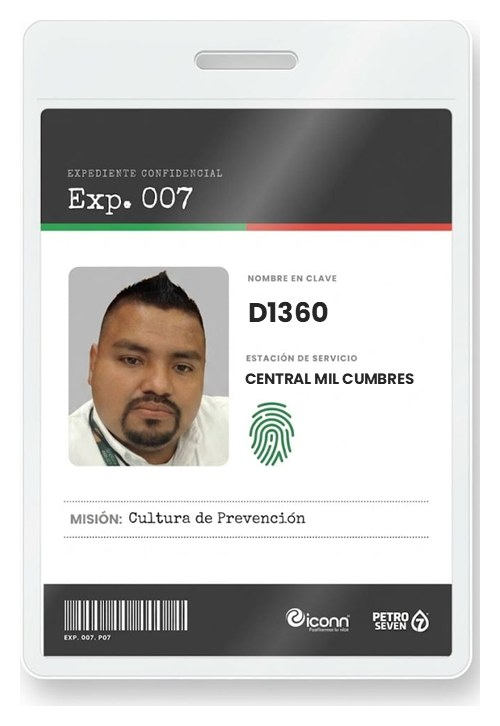
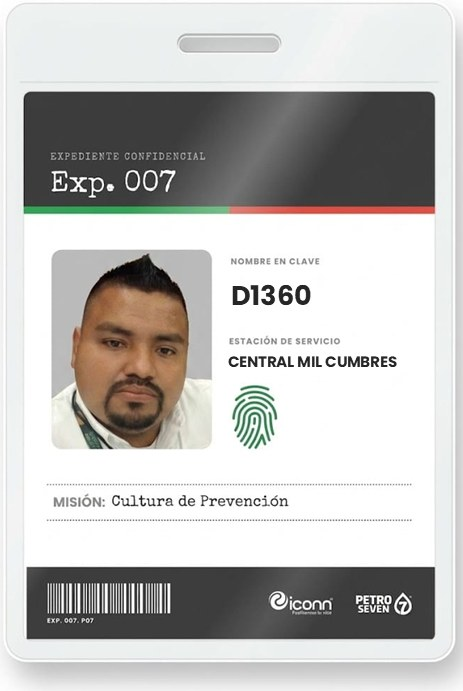
IDs con marco blanco delgado ajustado y sombra detrás
Claude-Session: https://claude.ai/code/session_01DvFJqKrDM1LFJ7GMwDyDfp

diff --git a/index.html b/index.html
@@ -87,9 +87,9 @@
 .ag-sub{text-align:center;font-size:20px;font-weight:600;line-height:1.45;max-width:640px;margin:-1.2cqw auto 3cqw}
 .ag-stage{position:relative;margin:0 auto;z-index:5;height:min(620px,47cqw)}
 .ag-view{position:absolute;inset:0}
-.ag-k{position:absolute;top:50%;left:50%;width:min(440px,33cqw);aspect-ratio:.72;transition:transform .55s cubic-bezier(.3,.7,.2,1),opacity .55s,filter .55s;cursor:pointer;
-display:grid;place-items:center;background:#fff;border-radius:min(24px,2.2cqw);padding:0;overflow:hidden;box-shadow:0 18px 36px rgba(0,0,0,.28)}
-.ag-k img{width:100%;height:100%;object-fit:contain;display:block}
+.ag-k{position:absolute;top:50%;left:50%;width:min(420px,31cqw);transition:transform .55s cubic-bezier(.3,.7,.2,1),opacity .55s,filter .55s;cursor:pointer;
+background:#fff;border-radius:min(16px,1.4cqw);padding:min(8px,.6cqw);box-shadow:0 18px 36px rgba(0,0,0,.3)}
+.ag-k img{width:100%;height:auto;display:block;border-radius:min(10px,.9cqw)}
 .ag-k[data-p="0"]{transform:translate(-50%,-50%) scale(1);z-index:3;opacity:1}
 .ag-k[data-p="-1"]{transform:translate(-50%,-50%) translateX(-86%) scale(.46);z-index:2;opacity:.75;filter:brightness(.85)}
 .ag-k[data-p="1"]{transform:translate(-50%,-50%) translateX(86%) scale(.46);z-index:2;opacity:.75;filter:brightness(.85)}
@@ -105,7 +105,7 @@ display:grid;place-items:center;background:#fff;border-radius:min(24px,2.2cqw);p
 .ag-nav .ag-arr{position:static;margin:0;width:58px;height:58px}.ag-nav .ag-arr svg{width:28px;height:28px}.ag-stage>.ag-arr{display:none}
 .ag-dots button{width:10px;height:10px;border-radius:50%;border:0;padding:0;background:rgba(255,255,255,.4);cursor:pointer}
 .ag-dots button.on{background:#e5533d;width:26px;border-radius:6px}
-@media(max-width:640px){.ag-stage>.ag-arr{display:grid}.ag-nav .ag-arr{display:none}.ag-nav{margin-top:4cqw}.ag-sub{font-size:13px;margin:-1cqw 4cqw 4cqw}.ag-stage{height:100cqw}.ag-k{width:58cqw}
+@media(max-width:640px){.ag-stage>.ag-arr{display:grid}.ag-nav .ag-arr{display:none}.ag-nav{margin-top:4cqw}.ag-sub{font-size:13px;margin:-1cqw 4cqw 4cqw}.ag-stage{height:100cqw}.ag-k{width:56cqw;padding:5px;border-radius:12px}
 .ag-k[data-p="-1"]{transform:translate(-50%,-50%) translateX(-92%) scale(.42)}.ag-k[data-p="1"]{transform:translate(-50%,-50%) translateX(92%) scale(.42)}
 .ag-arr{width:34px;height:34px;margin-top:-17px}.ag-arr svg{width:17px;height:17px}.ag-arr.l{left:calc(25% - 14.5cqw - 17px)}.ag-arr.r{right:calc(25% - 14.5cqw - 17px)}
 .ag-pj{height:90cqw}.ag-pj.ella{left:-10cqw;bottom:-46cqw}.ag-pj.el{right:-11cqw;bottom:-46cqw}.ag{padding-bottom:30cqw!important}.ag-dots{gap:6px;margin-top:4cqw}.ag-dots button{width:8px;height:8px}.ag-dots button.on{width:20px}}
